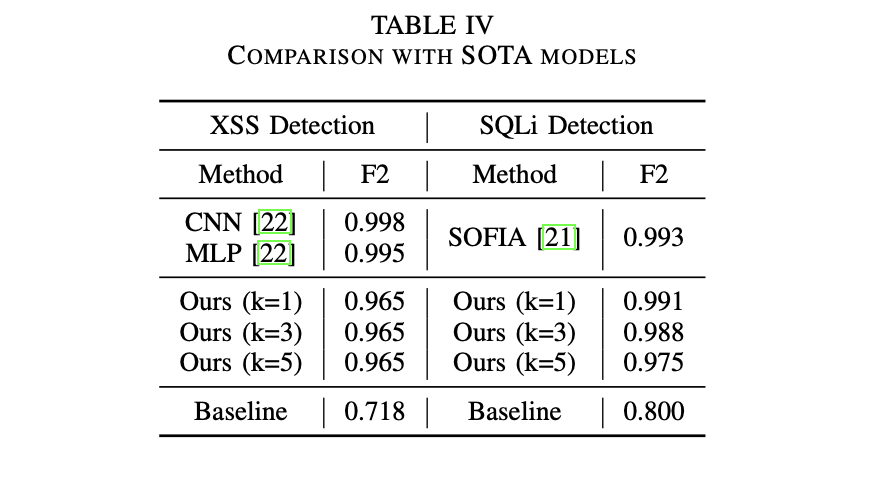
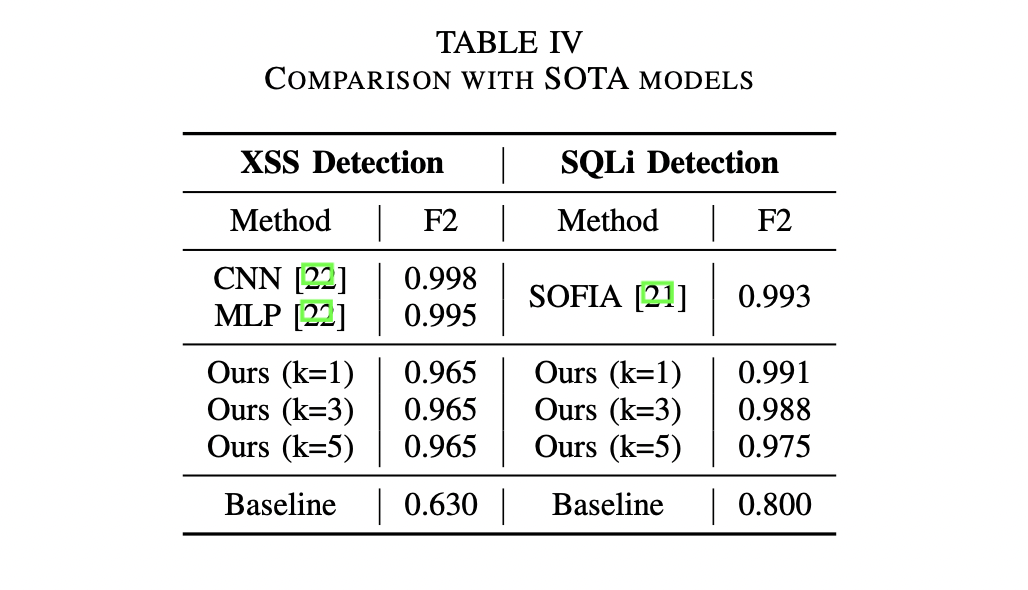
fixed rq3_f2 table

Changed region(s): [[0.1862, 0.1875, 0.8069, 0.9375], [0.2483, 0.0312, 0.7448, 0.1562]]

diff --git a/docs/results.md b/docs/results.md
@@ -159,7 +159,7 @@ Do the functions generated by LLMs, when assessed on an existing evaluation data
 To compare ours with learning-based SOTA techniques, we select $U^{best}$ and $top\_k$ functions based on $val\_set$ using F2-Score ( $M = F_2$ ). For XSS, $U^{best}$ is $(GPT-4T, 0.0, 10, T)$, while for SQLi, it is $(GPT-4T, 0.0, 2, T)$. We establish a baseline to better understand the improvement offered by adopting our approach. The baseline is obtained using Basic Prompt, without Few-shot examples and RAG.
 
 
-Table below presents the results of the comparison. We observe a significant improvement of 25\%pt and 18\%pt for XSS and SQLi respectively, when compared to the baseline. 
+Table below presents the results of the comparison. We observe a significant improvement of 34\%pt and 18\%pt for XSS and SQLi respectively, when compared to the baseline. 
 There is a slight decrease in F2 compared to SOTA models, with a 3.15\%pt and 0.83\%pt drop for XSS and SQLi, respectively. 
 We argue that the slight performance gap between our approach and SOTA models is understandable, given our approach's training-free nature and direct applicability to multiple tasks. <!--These results provide empirical support for our claim that incorporating external knowledge and Self-Ranking is essential for LLMs to achieving competitive performance with SOTA models. -->
 
